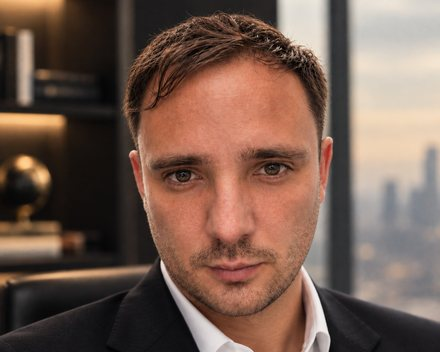
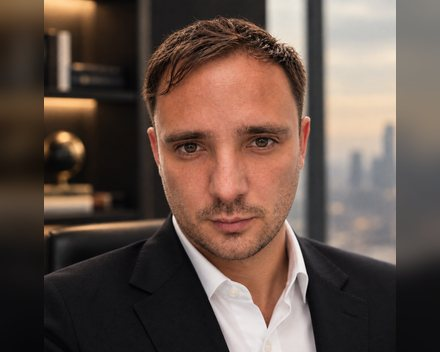
Panourile late (Noir 1, Mono 1-2) incadreaza portretul ca bust, nu prim-plan
Poza intreaga (cap, umeri, sacou) incape in panou; marginile ramase se
completeaza din propriul fundal, oglindit, blurat si intunecat - nimic
inventat. Aplicat si decupajelor pentru colectia HTML (assets/foto).

Claude-Session: https://claude.ai/code/session_01G1mwUXoSdtMd4dCo1NS8CP

diff --git a/email-signature/genereaza-imagini.py b/email-signature/genereaza-imagini.py
@@ -10,7 +10,7 @@ Fonturile sunt OFL (Google Fonts), coapte in imagine; destinatarul nu are
 nevoie de ele.
 """
 import argparse, importlib.util, math, os
-from PIL import Image, ImageDraw, ImageFont
+from PIL import Image, ImageDraw, ImageFont, ImageFilter, ImageEnhance
 
 BASE = os.path.dirname(os.path.abspath(__file__))
 OUT = os.path.join(BASE, "assets", "imagini")
@@ -36,6 +36,28 @@ mand = importlib.util.module_from_spec(_spec); _spec.loader.exec_module(mand)
 assert mand.SS == S
 
 def lerp(a, b, t): return tuple(int(round(a[i] + (b[i] - a[i]) * t)) for i in range(3))
+
+def contain_fill(portrait, w, h, dark=0.6):
+    """Poza intreaga scalata sa incapa in w x h; golurile laterale/verticale se umplu cu
+    fasia de margine a pozei, oglindita, blurata si intunecata (fundalul continua)."""
+    Wp, Hp = portrait.size; sc = min(w / Wp, h / Hp)
+    pw, ph = max(1, int(Wp * sc)), max(1, int(Hp * sc))
+    fg = portrait.resize((pw, ph), Image.LANCZOS)
+    out = Image.new("RGB", (w, h), (20, 20, 20))
+    gx, gy = (w - pw) // 2, (h - ph) // 2
+    blur = ImageFilter.GaussianBlur(radius=max(6, min(w, h) // 30))
+    if gx > 0:
+        left = fg.crop((0, 0, min(gx, pw), ph)).transpose(Image.FLIP_LEFT_RIGHT).resize((gx, ph), Image.LANCZOS)
+        right = fg.crop((max(0, pw - gx), 0, pw, ph)).transpose(Image.FLIP_LEFT_RIGHT).resize((w - pw - gx, ph), Image.LANCZOS)
+        for im_, x in ((left, 0), (right, gx + pw)):
+            out.paste(ImageEnhance.Brightness(im_.filter(blur)).enhance(dark), (x, gy))
+    if gy > 0:
+        top = fg.crop((0, 0, pw, min(gy, ph))).transpose(Image.FLIP_TOP_BOTTOM).resize((pw, gy), Image.LANCZOS)
+        bot = fg.crop((0, max(0, ph - gy), pw, ph)).transpose(Image.FLIP_TOP_BOTTOM).resize((pw, h - ph - gy), Image.LANCZOS)
+        for im_, y in ((top, 0), (bot, gy + ph)):
+            out.paste(ImageEnhance.Brightness(im_.filter(blur)).enhance(dark), (gx, y))
+    out.paste(fg, (gx, gy))
+    return out
 
 # ---- fonturi -----------------------------------------------------------------
 _fc = {}
@@ -125,11 +147,15 @@ class Canvas:
             px, py = cx * S + r * S * math.cos(a), cy * S + r * S * math.sin(a)
             self.im.paste(tmp, (int(px - tmp.width / 2), int(py - tmp.height / 2)), tmp)
             ang += wch / (r * S)
-    def paste_photo(self, portrait, box, shape="rect", r=0, zoom=1.0, face=(0.5, 0.42)):
-        """Portretul (sau un substitut) decupat in dreptunghi / cerc / colturi rotunjite."""
+    def paste_photo(self, portrait, box, shape="rect", r=0, zoom=1.0, face=(0.5, 0.42), contain=False):
+        """Portretul (sau un substitut) decupat in dreptunghi / cerc / colturi rotunjite.
+        contain=True: poza intreaga (bust) incape in caseta; marginile ramase se completeaza
+        din propriul ei fundal, oglindit si blurat - nu se inventeaza nimic."""
         x0, y0, x1, y1 = [v * S for v in box]
         w, h = int(x1 - x0), int(y1 - y0)
-        if portrait is None:
+        if portrait is not None and contain:
+            ph = contain_fill(portrait, w, h)
+        elif portrait is None:
             ph = Image.new("RGB", (w, h), (36, 36, 36)); dd = ImageDraw.Draw(ph)
             for yy in range(h): dd.line([(0, yy), (w, yy)], fill=lerp((52, 52, 52), (24, 24, 24), yy / h))
             f = font("Cormorant.ttf", min(w, h) / S * 0.42, "SemiBold")
@@ -370,7 +396,7 @@ def noir_logo(c, cx, cy, r=40, fill=None):
 
 def noir1(P):
     c = Canvas(170, NB)
-    c.paste_photo(P, (300, 0, 600, 170), face=(0.5, 0.45))
+    c.paste_photo(P, (300, 0, 600, 170), contain=True)      # bust, ca in referinta, nu prim-plan
     noir_left(c, 40, 46)
     return c
 
@@ -418,14 +444,14 @@ def mono_logo(c, cx, cy, r=38, ink=MB, paper=MW, filled=True):
 
 def mono1(P):
     c = Canvas(160, MB)
-    c.paste_photo(P, (400, 0, 600, 160), face=(0.5, 0.42))
+    c.paste_photo(P, (400, 0, 600, 160), contain=True)
     mono_logo(c, 330, 80)
     mono_left(c, 40, 32)
     return c
 
 def mono2(P):
     c = Canvas(175, MB)
-    c.paste_photo(P, (330, 0, 500, 175), face=(0.5, 0.42))
+    c.paste_photo(P, (330, 0, 500, 175), contain=True)
     c.rotated_text(528, 87, NUME, SCRIPT(24), MW)
     mono_left(c, 40, 34, brokerage=True)
     return c

diff --git a/email-signature/genereaza-foto.py b/email-signature/genereaza-foto.py
@@ -11,7 +11,7 @@ celulei pentru rama "floare" aurie din Lux (are colturi de fundal, nu de poza).
 Centrul fetei: implicit (0.50, 0.42) din inaltime - un portret bust, fata sus.
 """
 import math, os, sys
-from PIL import Image, ImageDraw
+from PIL import Image, ImageDraw, ImageFilter, ImageEnhance
 
 BASE = os.path.dirname(os.path.abspath(__file__))
 OUT = os.path.join(BASE, "assets", "foto")
@@ -31,6 +31,21 @@ def crop(src, w, h, zoom=1.0):
     cx, cy = FACE[0] * W, FACE[1] * H
     x0 = min(max(cx - cw / 2, 0), W - cw); y0 = min(max(cy - ch / 2, 0), H - ch)
     return src.crop((int(x0), int(y0), int(x0 + cw), int(y0 + ch))).resize((w, h), Image.LANCZOS)
+
+def contain(src, w, h, dark=0.6):
+    """Poza intreaga (bust) in w x h; golurile se umplu din marginea ei oglindita si blurata."""
+    Wp, Hp = src.size; sc = min(w / Wp, h / Hp); pw, ph = max(1, int(Wp * sc)), max(1, int(Hp * sc))
+    fg = src.resize((pw, ph), Image.LANCZOS); out = Image.new("RGB", (w, h), (20, 20, 20))
+    gx, gy = (w - pw) // 2, (h - ph) // 2; blur = ImageFilter.GaussianBlur(radius=max(6, min(w, h) // 30))
+    if gx > 0:
+        left = fg.crop((0, 0, min(gx, pw), ph)).transpose(Image.FLIP_LEFT_RIGHT).resize((gx, ph), Image.LANCZOS)
+        right = fg.crop((max(0, pw - gx), 0, pw, ph)).transpose(Image.FLIP_LEFT_RIGHT).resize((w - pw - gx, ph), Image.LANCZOS)
+        for im_, x in ((left, 0), (right, gx + pw)): out.paste(ImageEnhance.Brightness(im_.filter(blur)).enhance(dark), (x, gy))
+    if gy > 0:
+        top = fg.crop((0, 0, pw, min(gy, ph))).transpose(Image.FLIP_TOP_BOTTOM).resize((pw, gy), Image.LANCZOS)
+        bot = fg.crop((0, max(0, ph - gy), pw, ph)).transpose(Image.FLIP_TOP_BOTTOM).resize((pw, h - ph - gy), Image.LANCZOS)
+        for im_, y in ((top, 0), (bot, gy + ph)): out.paste(ImageEnhance.Brightness(im_.filter(blur)).enhance(dark), (gx, y))
+    out.paste(fg, (gx, gy)); return out
 
 def jpeg(im, name, q=84):
     p = os.path.join(OUT, name); im.convert("RGB").save(p, "JPEG", quality=q, optimize=True, progressive=False)
@@ -77,10 +92,10 @@ if __name__ == "__main__":
     sizes["foto-lux-pruna.png"] = floare(src, 160, PRUNA, "foto-lux-pruna.png")   # Lux 5, 9
     sizes["foto-aur.jpg"]    = jpeg(crop(src, 144, 144, 1.1), "foto-aur.jpg")     # Aur: nucleu 72
     sizes["foto-rose.jpg"]   = jpeg(crop(src, 280, 280), "foto-rose.jpg")         # Rose: nucleu 140
-    sizes["foto-noir-1.jpg"] = jpeg(crop(src, 600, 360), "foto-noir-1.jpg")       # Noir 1: panou 300x180
+    sizes["foto-noir-1.jpg"] = jpeg(contain(src, 600, 360), "foto-noir-1.jpg")    # Noir 1: panou 300x180, bust
     sizes["foto-noir-2.jpg"] = jpeg(crop(src, 240, 300), "foto-noir-2.jpg")       # Noir 2-3: panou 120x150
-    sizes["foto-mono-1.jpg"] = jpeg(crop(src, 440, 352), "foto-mono-1.jpg")       # Mono 1: panou 220x176
-    sizes["foto-mono-2.jpg"] = jpeg(crop(src, 400, 352), "foto-mono-2.jpg")       # Mono 2: panou 200x176
+    sizes["foto-mono-1.jpg"] = jpeg(contain(src, 440, 352), "foto-mono-1.jpg")    # Mono 1: panou 220x176, bust
+    sizes["foto-mono-2.jpg"] = jpeg(contain(src, 400, 352), "foto-mono-2.jpg")    # Mono 2: panou 200x176, bust
     sizes["foto-mono-3.jpg"] = jpeg(crop(src, 116, 116, 1.1), "foto-mono-3.jpg")  # Mono 3: nucleu 58
     for k in sorted(sizes): print(f"{k:22s} {sizes[k]:6d} B")
     print("total", sum(sizes.values()), "B")
